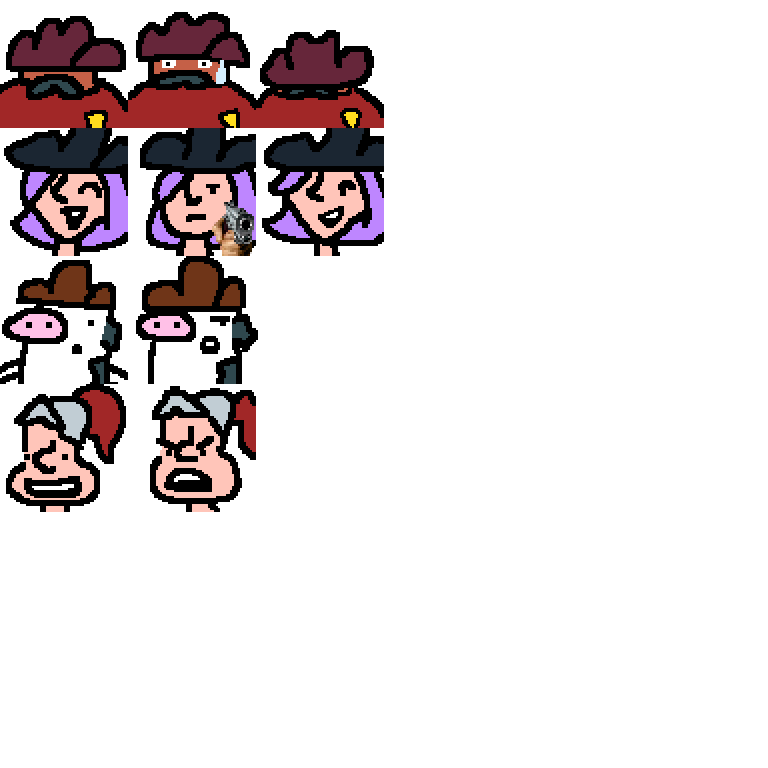
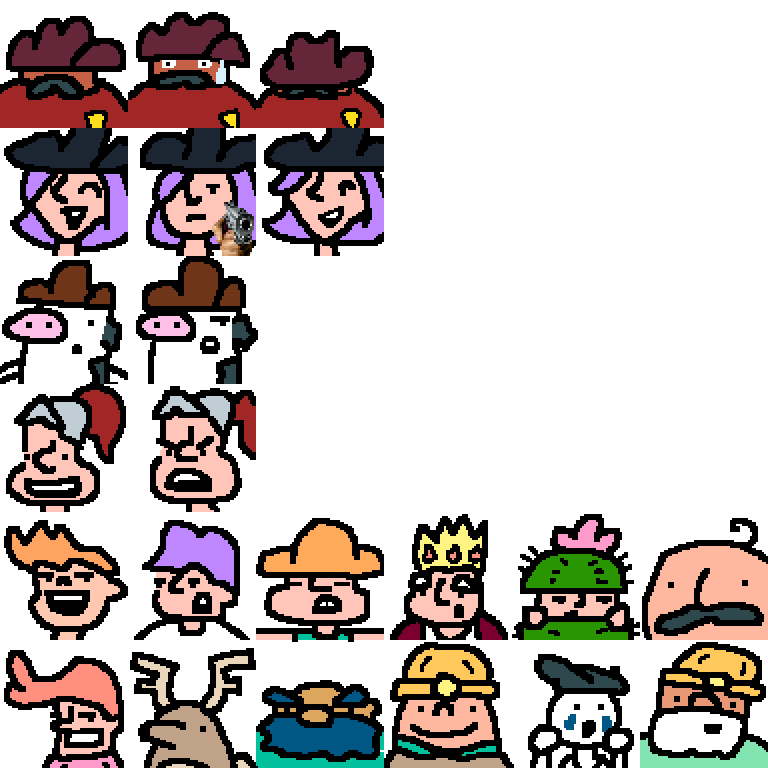
*Rudy Giuliani voice* aaaaalll the graphics?????

Changed region(s): [[0.0, 0.6562, 1.0, 1.0]]

diff --git a/Duel/Data/Dialog/Speaker.cs b/Duel/Data/Dialog/Speaker.cs
@@ -12,13 +12,29 @@ namespace Duel.Data.Dialog {
             }
         }
 
-        public static Speaker SheriffNormal = new Speaker(
-            "Ernesto", 0
-        );
+        public static Speaker SheriffNormal = new Speaker("Ernesto", 0);
+        public static Speaker SheriffSpooked = new Speaker("Ernesto", 1);
+        public static Speaker SheriffDeepBow = new Speaker("Ernesto", 2);
+        public static Speaker RenegadeLaugh = new Speaker("Miranda", 6);
+        public static Speaker RenegadeGun = new Speaker("Miranda", 7);
+        public static Speaker RenegadeSmirk = new Speaker("Miranda", 8);
+        public static Speaker CowboyNormal = new Speaker("Steven", 12);
+        public static Speaker CowboySkeptical = new Speaker("Steven", 13);
+        public static Speaker KnightGrin = new Speaker("Bennigan", 18);
+        public static Speaker KnightRascal = new Speaker("Bennigan", 19);
 
-        public static Speaker SheriffSpooked = new Speaker(
-            "Ernesto", 1
-        );
+        public static Speaker Sar = new Speaker("Sar Saparilla", 24);
+        public static Speaker Mom = new Speaker("Mom", 25);
+        public static Speaker Farmer = new Speaker("Ernest", 26);
+        public static Speaker King = new Speaker("His Majesty", 27);
+        public static Speaker Sneakman = new Speaker("Sneakman", 28);
+        public static Speaker Egg = new Speaker("Egg-Shaped Man", 29);
+        public static Speaker CoolHairguy = new Speaker("Cool Hairguy", 30);
+        public static Speaker Jackalope = new Speaker("Jackalope", 31);
+        public static Speaker Hardy = new Speaker("Hardy", 32);
+        public static Speaker Moleman = new Speaker("Moleman", 34);
+        public static Speaker Mime = new Speaker("????", 34);
+        public static Speaker Fourman = new Speaker("Gary", 35);
 
         // class def
 

diff --git a/Duel/Data/TemplateLibrary.cs b/Duel/Data/TemplateLibrary.cs
@@ -89,6 +89,20 @@ namespace Duel.Data
             templateLibrary.AddTemplate("small_cactus", new PropTemplate("props_small_cactus"));
             templateLibrary.AddTemplate("small_rock", new PropTemplate("props_small_rock"));
             templateLibrary.AddTemplate("thistown_sign", new PropTemplate("props_thistown_sign"));
+            templateLibrary.AddTemplate("aloe", new PropTemplate("props_aloe"));
+            templateLibrary.AddTemplate("barn", new PropTemplate("props_barn"));
+            templateLibrary.AddTemplate("conveyor", new PropTemplate("props_conveyor"));
+            templateLibrary.AddTemplate("crates", new PropTemplate("props_crates"));
+            templateLibrary.AddTemplate("horse", new PropTemplate("props_horse"));
+            templateLibrary.AddTemplate("house_2", new PropTemplate("props_house_2"));
+            templateLibrary.AddTemplate("machinery", new PropTemplate("props_machinery"));
+            templateLibrary.AddTemplate("palm_tree", new PropTemplate("props_palm_tree"));
+
+            // Props that appear below entities
+            templateLibrary.AddTemplate("city_limits", new PropTemplate("props_city_limits"));
+            templateLibrary.AddTemplate("wave1", new PropTemplate("props_wave1"));
+            templateLibrary.AddTemplate("wave2", new PropTemplate("props_wave2"));
+            templateLibrary.AddTemplate("wave3", new PropTemplate("props_wave3"));
 
             // Tiles
             templateLibrary.AddTemplate("empty_tile", new TileTemplate());
